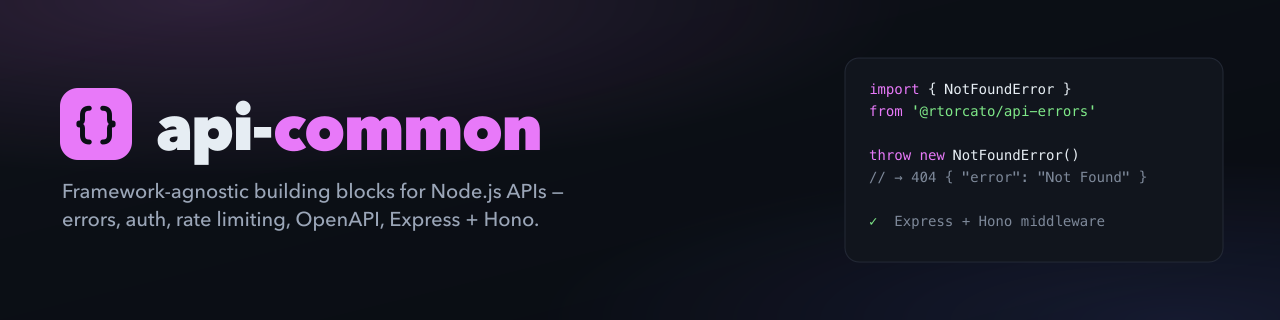
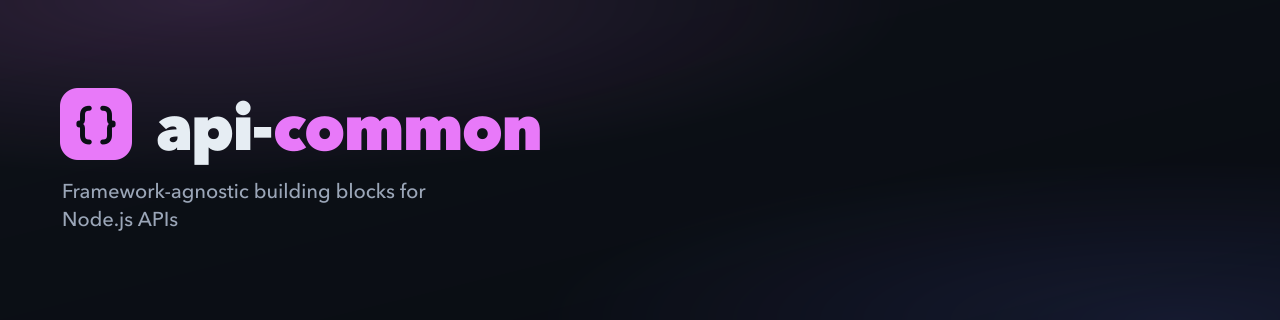
chore(brand): move brand/ onto @rtorcato/brand-kit (#262)
Regenerate brand/ with brand-kit 1.1.1 (--update, keeping accent
#e879f9 and the current tagline), add the missing favicon.svg,
favicon-512.png, favicon.ico, social-card.png and .render.json, and
replace the hand-made README banner with the brand-kit block.

The root package.json gets the tagline as its description so brand-kit
derives it on its own and doctor --strict passes.

Closes #259

diff --git a/README.md b/README.md
@@ -1,9 +1,9 @@
-<p align="center">
-  <picture>
-    <source media="(max-width: 600px)" srcset="./brand/banner-mobile.png">
-    <img src="./brand/banner.png" alt="api-common — Framework-agnostic building blocks for Node.js APIs" width="100%">
-  </picture>
-</p>
+<!-- brand-kit:banner:start -->
+<picture>
+  <source media="(max-width: 640px)" srcset="./brand/banner-mobile.png">
+  <img src="./brand/banner.png" alt="api-common banner" width="1600">
+</picture>
+<!-- brand-kit:banner:end -->
 
 <br>
 
